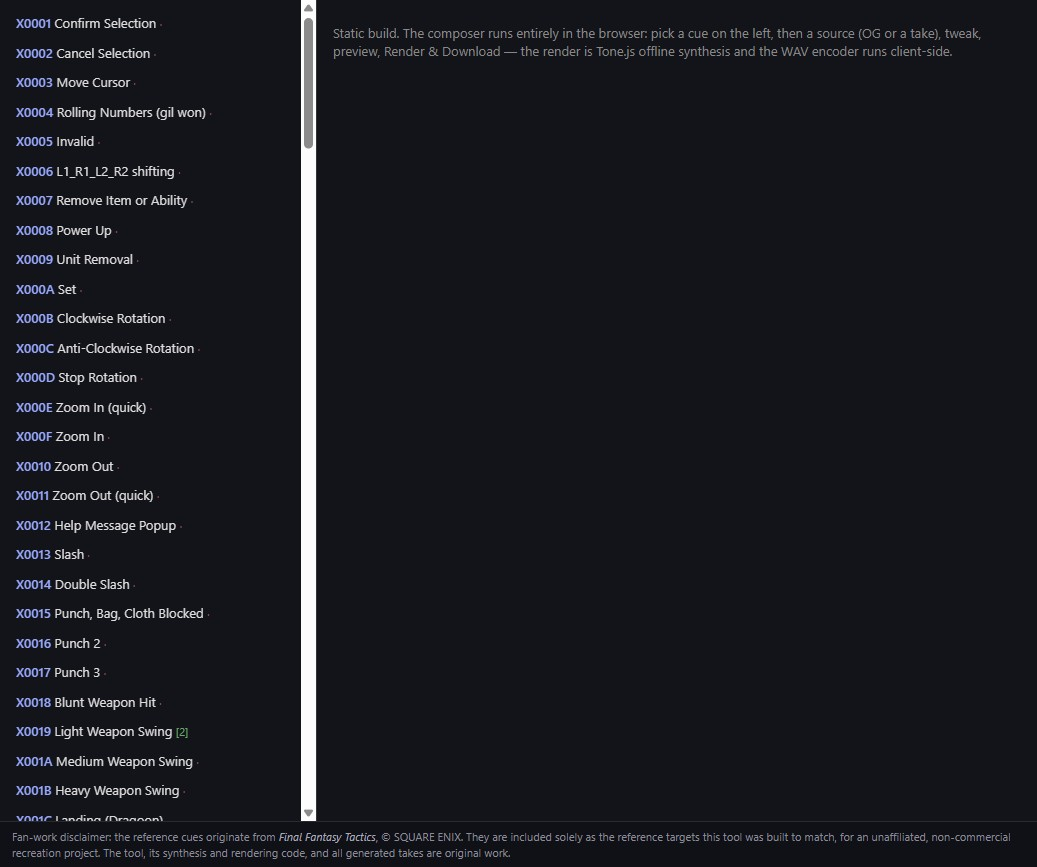
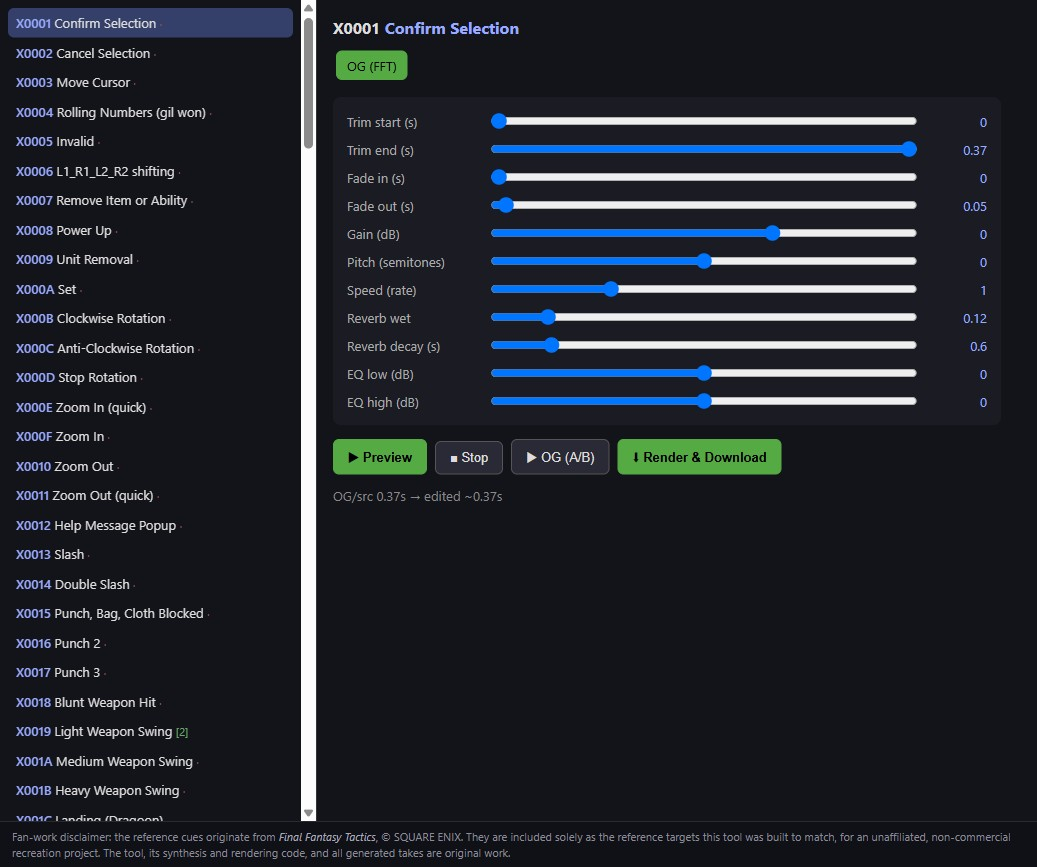
feat(portfolio): roll the framed-media treatment across the demo pages
pf-frame around every embedded demo, button-styled run links, caption
class on the clip-strip captions; sfx-composer poster recaptured with
the effects rack in frame.

diff --git a/portfolio/design-workshop.md b/portfolio/design-workshop.md
@@ -11,7 +11,7 @@ permalink: /portfolio/design-workshop/
   <video src="{{ '/portfolio/design-workshop/demo/out/workshop/battle_feel/feel_punchy.mp4' | relative_url }}" autoplay muted loop playsinline style="width:33.3%;min-width:0;border-radius:0.5rem;" title="battle feel — punchy"></video>
   <video src="{{ '/portfolio/design-workshop/demo/out/workshop/battle_feel/feel_cinematic.mp4' | relative_url }}" autoplay muted loop playsinline style="width:33.3%;min-width:0;border-radius:0.5rem;" title="battle feel — cinematic"></video>
 </div>
-<p><small>Three takes on battle feel from the board's battle-feel lane: <strong>baseline</strong>, <strong>punchy</strong>, <strong>cinematic</strong> — the kind of side-by-side call the board exists to make.</small></p>
+<p class="pf-cap">Three takes on battle feel from the board's battle-feel lane: <strong>baseline</strong>, <strong>punchy</strong>, <strong>cinematic</strong> — the kind of side-by-side call the board exists to make.</p>
 
 The review surface the design work on *For What Lies Beneath* runs through — this board is
 where the game's design calls get made. **Six lanes — VFX,
@@ -19,12 +19,14 @@ battle feel, mechanics, playthrough, flow and balance** — each with its own ca
 and notes, plus a work-card queue, a milestone list, and a scene-flow view that diffs the
 intended screen graph against a trace captured from live play.
 
+<div class="pf-frame">
 <iframe src="{{ '/portfolio/design-workshop/demo/' | relative_url }}"
-        style="width:100%;aspect-ratio:16/10;min-height:560px;border:1px solid var(--surface, #333);border-radius:0.5rem;"
+        style="width:100%;aspect-ratio:16/10;min-height:560px;border:0;display:block;"
         loading="lazy" title="Design Workshop board — six review lanes, four passes, and the balance lab">
 </iframe>
+</div>
 
-<p><a href="{{ '/portfolio/design-workshop/demo/' | relative_url }}">Run it full-page →</a></p>
+<p><a class="pf-btn" href="{{ '/portfolio/design-workshop/demo/' | relative_url }}">Run it full-page →</a></p>
 
 Open every lane and tab, play the clips, read a verdict next to the note that produced it and
 the pass history behind both. The balance lab, off the board's BALANCE lane button: three tables

diff --git a/portfolio/vfx-report.md b/portfolio/vfx-report.md
@@ -11,7 +11,7 @@ permalink: /portfolio/vfx-report/
   <video src="{{ '/portfolio/vfx-report/demo/out/cracked.mp4' | relative_url }}" autoplay muted loop playsinline style="width:33.3%;min-width:0;border-radius:0.5rem;" title="Cracked ground · obsidian"></video>
   <video src="{{ '/portfolio/vfx-report/demo/out/trail.mp4' | relative_url }}" autoplay muted loop playsinline style="width:33.3%;min-width:0;border-radius:0.5rem;" title="Energy trails"></video>
 </div>
-<p><small>Three of the twelve renders: <strong>dissolve / materialize</strong>, <strong>cracked ground · obsidian</strong>, <strong>energy trails</strong>. All twelve are embedded in the report below.</small></p>
+<p class="pf-cap">Three of the twelve renders: <strong>dissolve / materialize</strong>, <strong>cracked ground · obsidian</strong>, <strong>energy trails</strong>. All twelve are embedded in the report below.</p>
 
 One sustained VFX build-out on *For What Lies Beneath* — **fourteen commits across six waves,
 eight new demo studios, six reusable modules** the game's effect work now draws on — narrated
@@ -19,12 +19,14 @@ wave by wave with the renders embedded
 where the prose earns them: HD sprites in the pixel world, energy trails, cashing in the noise
 engine, a distortion family, anti-occlusion and the info layer, and cellular follow-ons.
 
+<div class="pf-frame">
 <iframe src="{{ '/portfolio/vfx-report/demo/' | relative_url }}"
-        style="width:100%;aspect-ratio:16/10;min-height:560px;border:1px solid var(--surface, #333);border-radius:0.5rem;"
+        style="width:100%;aspect-ratio:16/10;min-height:560px;border:0;display:block;"
         loading="lazy" title="VFX build-out report — six waves narrated with twelve embedded renders">
 </iframe>
+</div>
 
-<p><a href="{{ '/portfolio/vfx-report/demo/' | relative_url }}">Read it full-page →</a></p>
+<p><a class="pf-btn" href="{{ '/portfolio/vfx-report/demo/' | relative_url }}">Read it full-page →</a></p>
 
 The build ran autonomously; **the report is how it came back for judgment**. It closes with an
 explicit decision list for the project owner and suggested follow-ons — the same contract the

diff --git a/portfolio/game.md b/portfolio/game.md
@@ -13,12 +13,14 @@ the DAW's loops, the auditioned effects, and the workshop's verdicts all point h
 through it: faction select, the branching march map, then a battle on destructible terrain with
 the action menu and unit stats live.
 
+<div class="pf-frame">
 <iframe src="{{ '/portfolio/game/demo/' | relative_url }}"
-        style="width:100%;aspect-ratio:16/9;min-height:520px;border:1px solid var(--surface, #333);border-radius:0.5rem;"
+        style="width:100%;aspect-ratio:16/9;min-height:520px;border:0;display:block;"
         loading="lazy" allow="fullscreen; autoplay" title="For What Lies Beneath — Godot web export, click the canvas then press Enter">
 </iframe>
+</div>
 
-<p><a href="{{ '/portfolio/game/demo/' | relative_url }}">Run it full-page →</a></p>
+<p><a class="pf-btn" href="{{ '/portfolio/game/demo/' | relative_url }}">Run it full-page →</a></p>
 
 <small>**It needs no cross-origin isolation, and none is configured.** The common expectation is
 that Godot Web requires `SharedArrayBuffer`, therefore COOP/COEP headers, therefore a

diff --git a/portfolio/audio-daw.md b/portfolio/audio-daw.md
@@ -10,12 +10,14 @@ The audio tool from *For What Lies Beneath*, live in this page with no server be
 **167 synthesized cues, 7 music tracks, waveform cutting, loop authoring**. This system is why
 the game's music can loop seamlessly in-engine: it authors the exact loop data Godot reads.
 
+<div class="pf-frame">
 <iframe src="{{ '/portfolio/audio-daw/demo/' | relative_url }}"
-        style="width:100%;aspect-ratio:16/10;min-height:560px;border:1px solid var(--surface, #333);border-radius:0.5rem;"
+        style="width:100%;aspect-ratio:16/10;min-height:560px;border:0;display:block;"
         loading="lazy" title="Audio DAW — 167 SFX cues, 7 music tracks, loop authoring and WAV export">
 </iframe>
+</div>
 
-<p><a href="{{ '/portfolio/audio-daw/demo/' | relative_url }}">Run it full-page →</a></p>
+<p><a class="pf-btn" href="{{ '/portfolio/audio-daw/demo/' | relative_url }}">Run it full-page →</a></p>
 
 Two of the game's tracks, straight off the shelf the tool serves:
 

diff --git a/portfolio/sfx-composer.md b/portfolio/sfx-composer.md
@@ -11,12 +11,14 @@ shape it through an effects rack, render the keeper to a WAV** — live in this 
 takes chosen here are how the game gets its sound: generation supplies the candidates, and a
 human ear makes the call.
 
+<div class="pf-frame">
 <iframe src="{{ '/portfolio/sfx-composer/demo/' | relative_url }}"
-        style="width:100%;aspect-ratio:16/10;min-height:560px;border:1px solid var(--surface, #333);border-radius:0.5rem;"
+        style="width:100%;aspect-ratio:16/10;min-height:560px;border:0;display:block;"
         loading="lazy" title="SFX take composer — 167 reference cues, an effects rack, and offline WAV rendering">
 </iframe>
+</div>
 
-<p><a href="{{ '/portfolio/sfx-composer/demo/' | relative_url }}">Run it full-page →</a></p>
+<p><a class="pf-btn" href="{{ '/portfolio/sfx-composer/demo/' | relative_url }}">Run it full-page →</a></p>
 
 Two generated takes of one cue, exactly as the tool auditions them:
 

diff --git a/portfolio/battle-effect-sequence.md b/portfolio/battle-effect-sequence.md
@@ -6,12 +6,14 @@ status: live
 permalink: /portfolio/battle-effect-sequence/
 ---
 
+<div class="pf-frame">
 <iframe src="{{ '/portfolio/battle-effect-sequence/demo/' | relative_url }}"
-        style="width:100%;aspect-ratio:16/9;border:1px solid var(--surface, #333);border-radius:0.5rem;"
+        style="width:100%;aspect-ratio:16/9;border:0;display:block;"
         loading="lazy" title="Battle-effect sequence demo — click the replay button in the corner">
 </iframe>
+</div>
 
-<p><a href="{{ '/portfolio/battle-effect-sequence/demo/' | relative_url }}">Run it full-page →</a>
+<p><a class="pf-btn" href="{{ '/portfolio/battle-effect-sequence/demo/' | relative_url }}">Run it full-page →</a>
 <small>(replay button in the corner)</small></p>
 
 A clean-room recreation of *Persona 5*'s "AMBUSH!" battle-start flourish — **cyan light-beams, a
